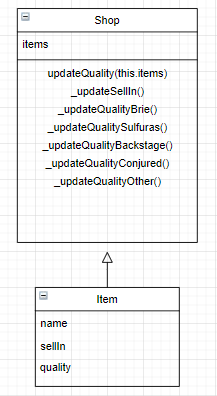
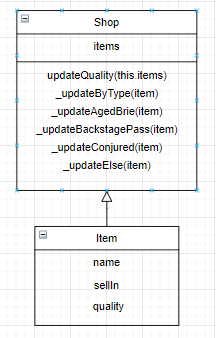
Update README

Changed region(s): [[0.0556, 0.0, 0.9167, 1.0], [0.4167, 0.8876, 0.5833, 0.9172], [0.4167, 0.8284, 0.5556, 0.858]]

diff --git a/src/gildedRoseShop.js b/src/gildedRoseShop.js
@@ -8,7 +8,6 @@ class Shop {
       });
     return this.items;
   }
-
   _updateByType(item) {
     let types = {
       'Aged Brie': this._updateAgedBrie,
@@ -23,14 +22,12 @@ class Shop {
       return types['default'](item)
     }
   }
-
   _updateAgedBrie(item) {
     item.sellIn--;
     if (item.quality < 50) {
       item.quality++;
     }
   }
-
   _updateBackstagePass(item) {
     if (item.quality < 50) {
       if (item.sellIn < 0) {
@@ -45,12 +42,10 @@ class Shop {
     }
     item.sellIn--;
   }
-
   _updateConjured(item) {
     item.sellIn--;
     item.quality = item.quality - 2;
   }
-
   _updateElse(item) {
     item.sellIn--;
     item.quality--;

diff --git a/README.md b/README.md
@@ -43,13 +43,21 @@ legendary item and as such its Quality is 80 and it never alters.
 
 ## How to use
 
+Open SpecRunner.html in the browser, this will automatically run the tests.
+
+In the browser console, you can create instances of the Item class & Shop class, see what's in the shop, then run the `updateQuality` method, like so: 
+
+![screen](images/screen.PNG)
+
 ## My approach  
 
 I used Javascript, and Jasmine for testing.
 I diagrammed the flow of the code to understand the legacy code. Then I diagrammed the classes and methods as they are in the legacy code, not changing it yet.
-I wrote tests for every scenario to check how the `updateQuality` method changes the `sellIn` and `quality` attributes of the items. This way I make sure that when refactoring the code I will not break the code by accident.
+I wrote tests for every type of item to check how the `updateQuality` method changes the `sellIn` and `quality` attributes of the items. This way I make sure that when refactoring the code I will not break the code by accident.
 
-There are 5 types of items in the Gilded Rose: `Aged Brie`, `Sulfuras`, `Backstage Pass`, `Conjured` and everything else. The best way to organise the code would probably be to create separate classes base on the type of item, however we are not allowed to change the `Item` class. The massive conditional statements can be replaced with private methods that are executed depending on the type of item.
+There are 5 types of items in the Gilded Rose: `Aged Brie`, `Sulfuras`, `Backstage Pass`, `Conjured` and everything else. The best way to organise the code would probably be to create separate classes base on the type of item, however we are not allowed to change the `Item` class.
+First I refactored the massive conditional statements into more readable code, still using if/else statements. Then I introduced private methods that will be executed depending on the type of item, to calculate their quality and sellIn values.
+Finally I used the object literal pattern to replace the conditional that controls what code to run for what type of item.
 
 ## Domain Model
 
